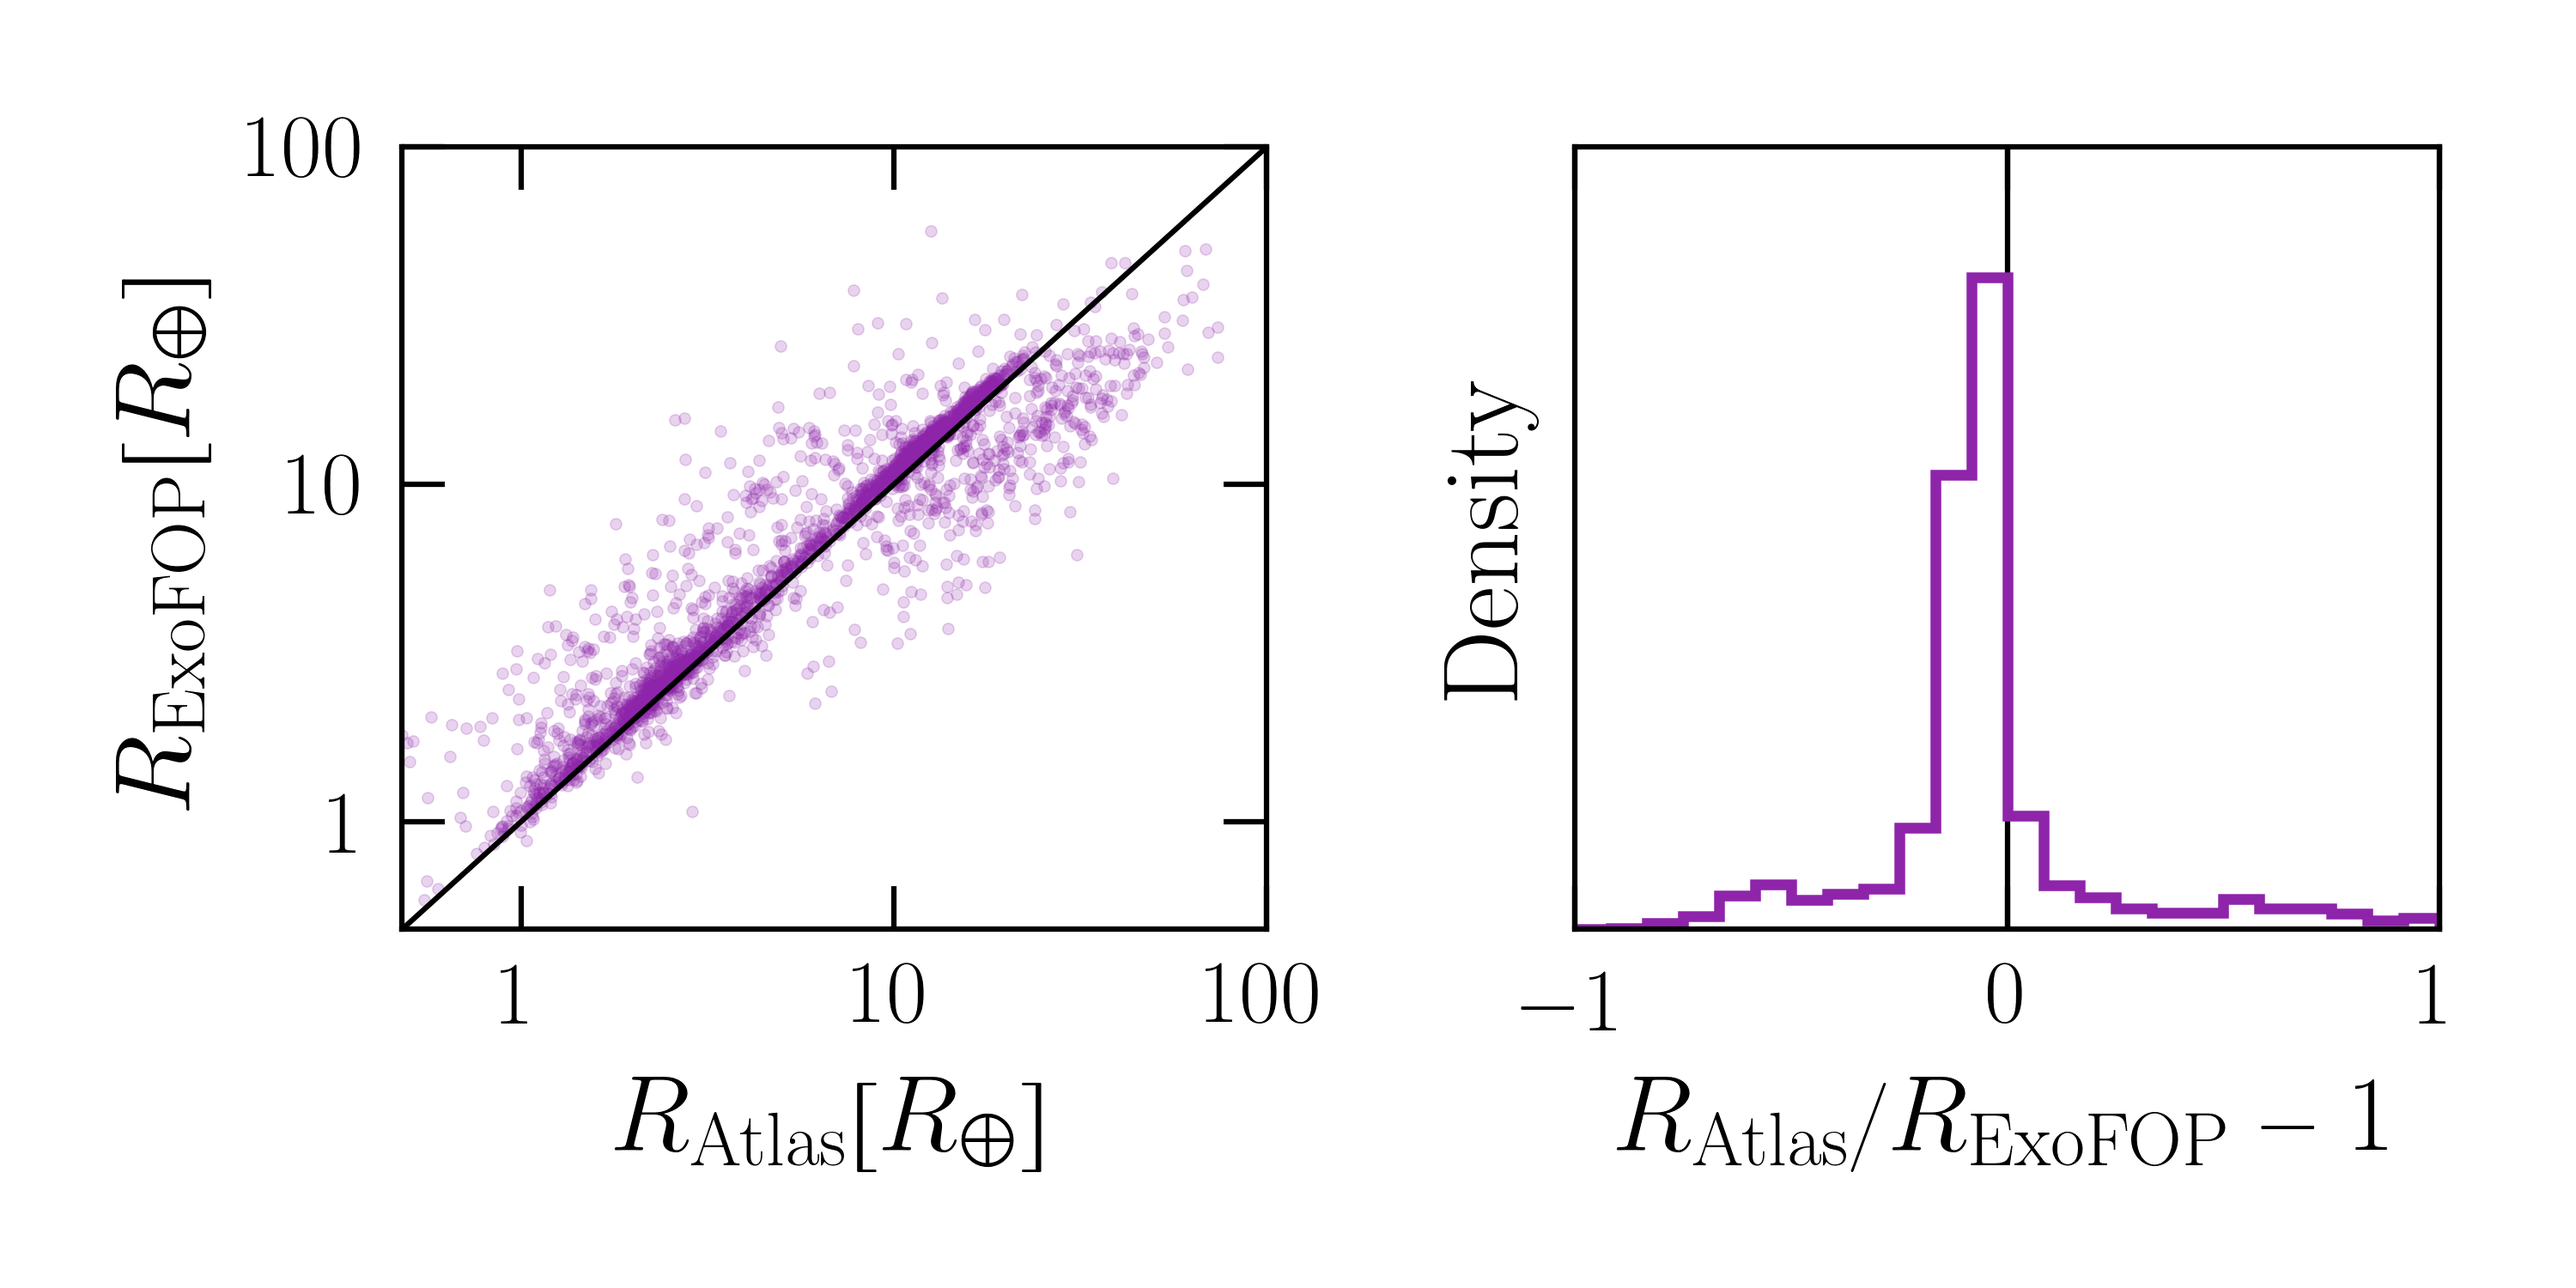
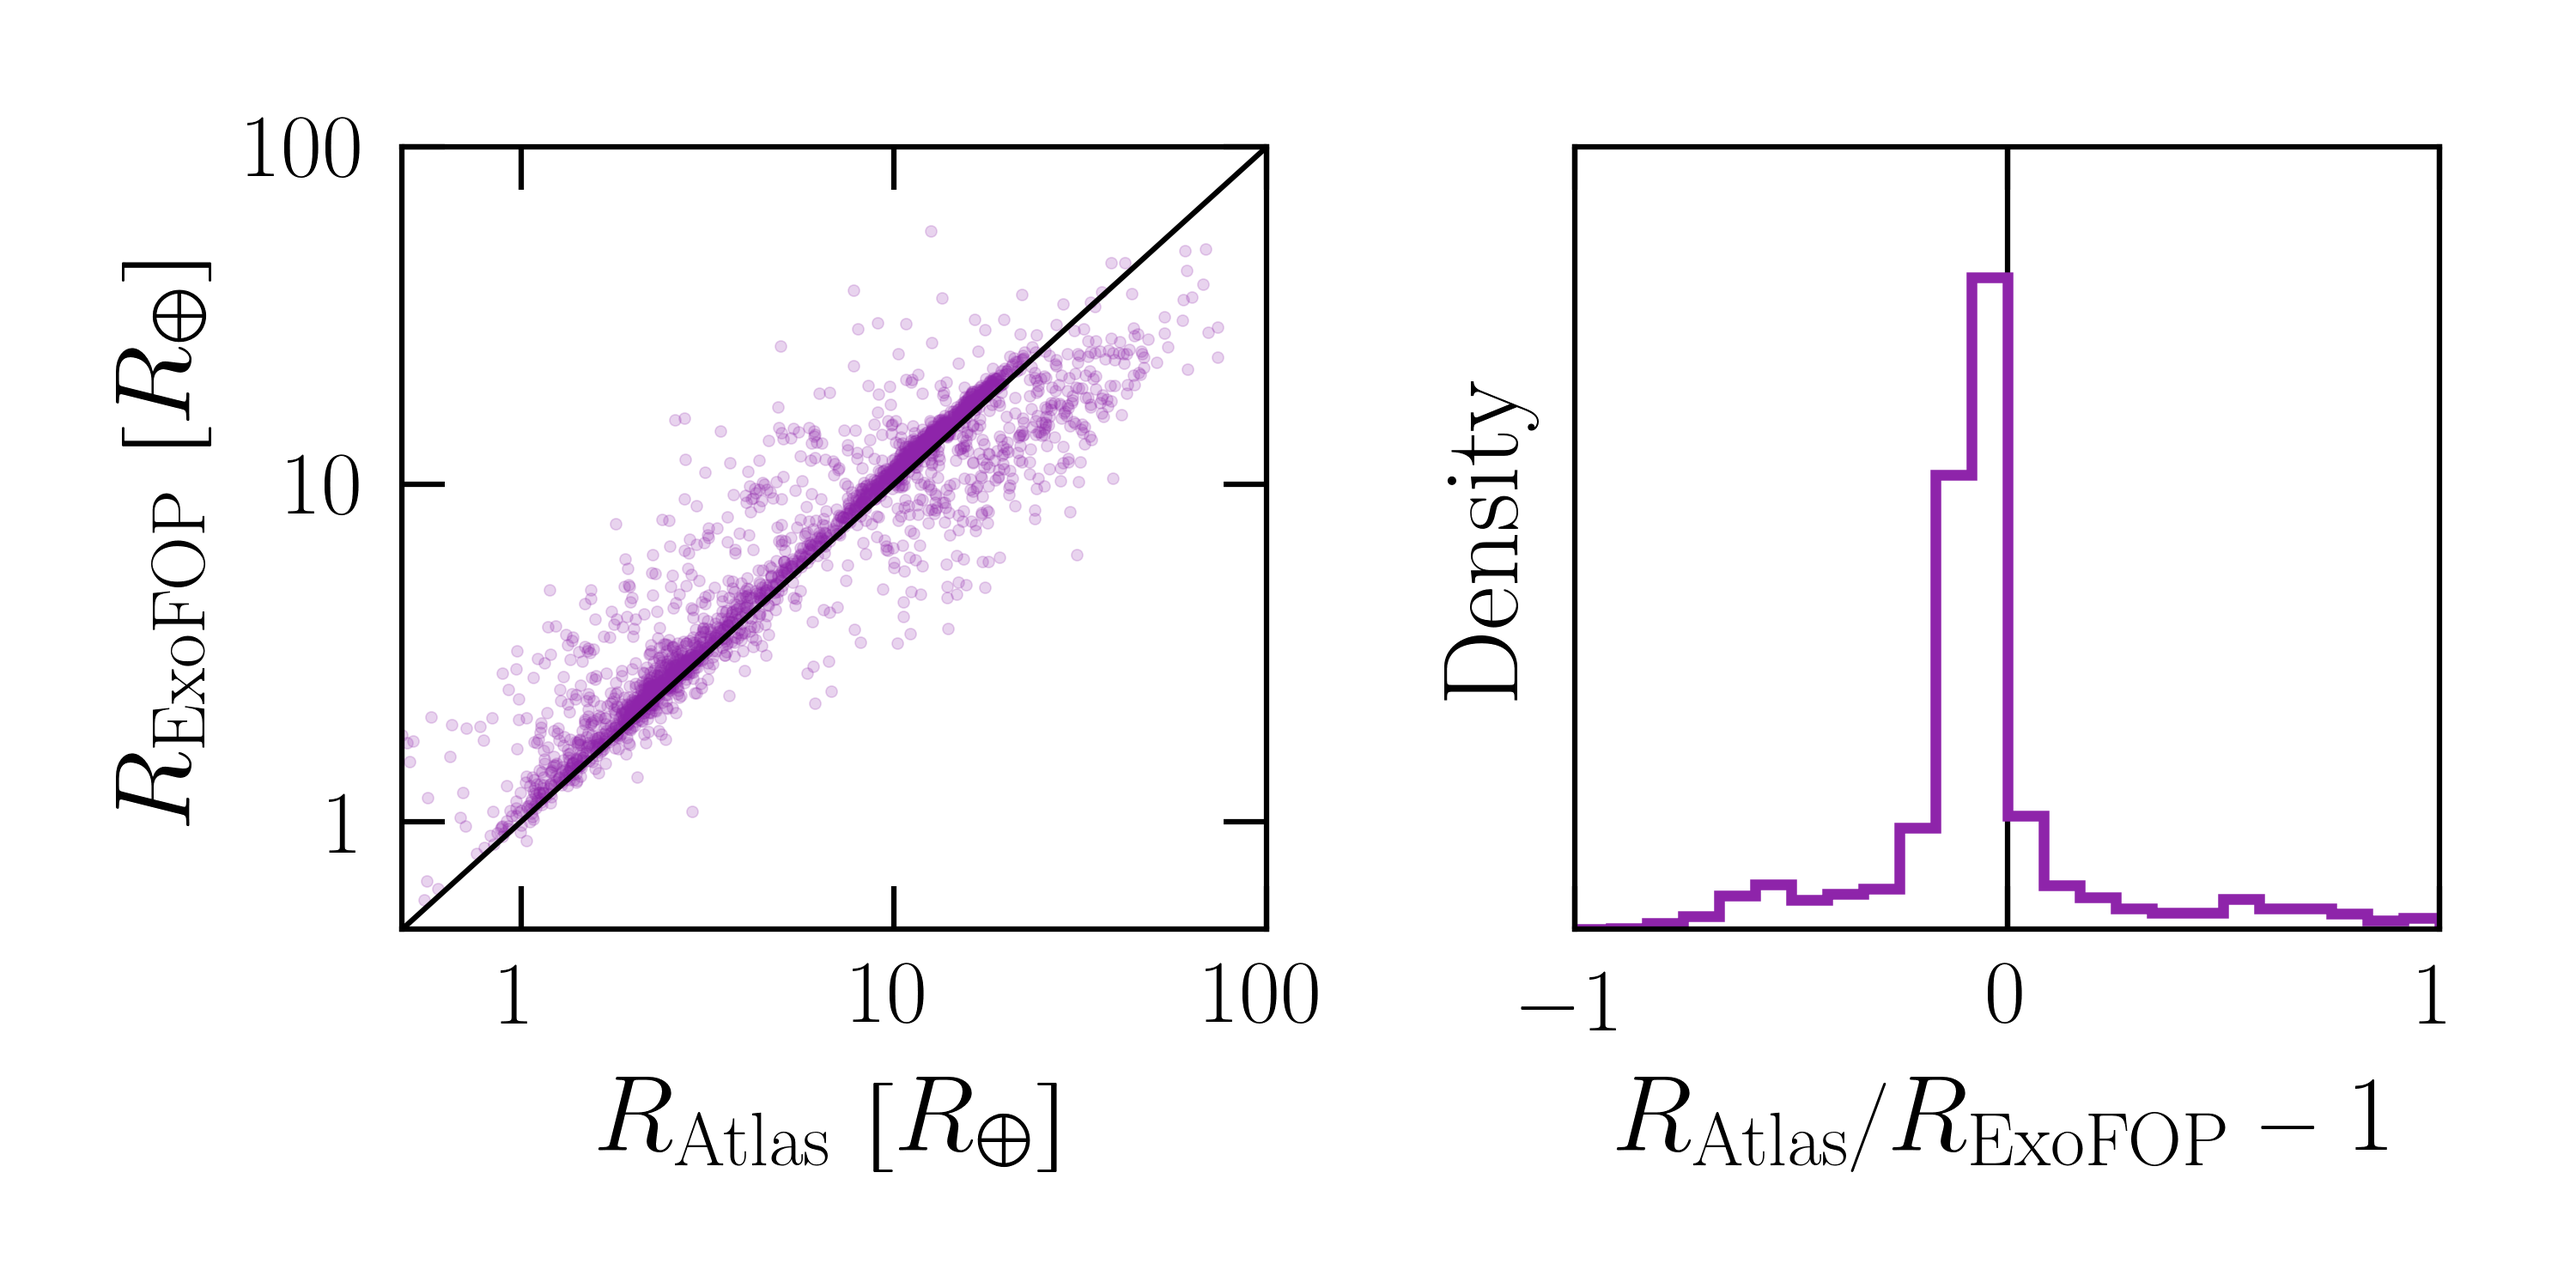
update figs

Changed region(s): [[0.031, 0.184, 0.093, 0.644], [0.217, 0.828, 0.434, 0.92]]

diff --git a/paper/figures/make_plots.py.py b/paper/figures/make_plots.py.py
@@ -310,14 +310,14 @@ def make_radius_comparions_plot():
     x1,  x2 = summary_df.atlas_radius, summary_df["Planet Radius (R_Earth)"]
     scatter_comparison(axes[0], x1, x2)
     plot_residual_hist(axes[1], x1, x2 , bins=np.linspace(-1,1,25))
-    axes[0].set_ylabel(r'$R_{\rm ExoFOP} [R_{\rm \Earth}]$')
-    axes[0].set_xlabel(r'$R_{\rm Atlas} [R_{\rm \Earth}]$')
+    axes[0].set_ylabel(r'$R_{\rm ExoFOP}\ [R_{\rm \Earth}]$')
+    axes[0].set_xlabel(r'$R_{\rm Atlas}\ [R_{\rm \Earth}]$')
     axes[1].set_xlabel(r'$R_{\rm Atlas}/R_{\rm ExoFOP} - 1$')
     axes[1].set_ylabel('Density')
     axes[0].set_xticks([1,10,100])
     axes[0].set_yticks([1,10,100])
     fig.tight_layout()
-    fig.savefig("radius_error.png", dpi=300)
+    fig.savefig("radius_error.png", dpi=300, transparent=False, facecolor='white')
 
 
 def make_period_radius_comparison_plot():
@@ -328,13 +328,10 @@ def make_period_radius_comparison_plot():
     add_solar_sys_planet_radii_lines(ax[1])
     plot_radii_hist(ax[0])
     add_solar_sys_planet_radii_lines(ax[0])
-    fig.savefig("radius_period_plot.png", dpi=300)
+    fig.savefig("radius_period_plot.png", dpi=300, transparent=False,facecolor='white',)
     return fig
 
 
     
 fig = make_period_radius_comparison_plot()
 make_radius_comparions_plot()
-# -
-
-set(summary_df['TESS Disposition'].unique())
